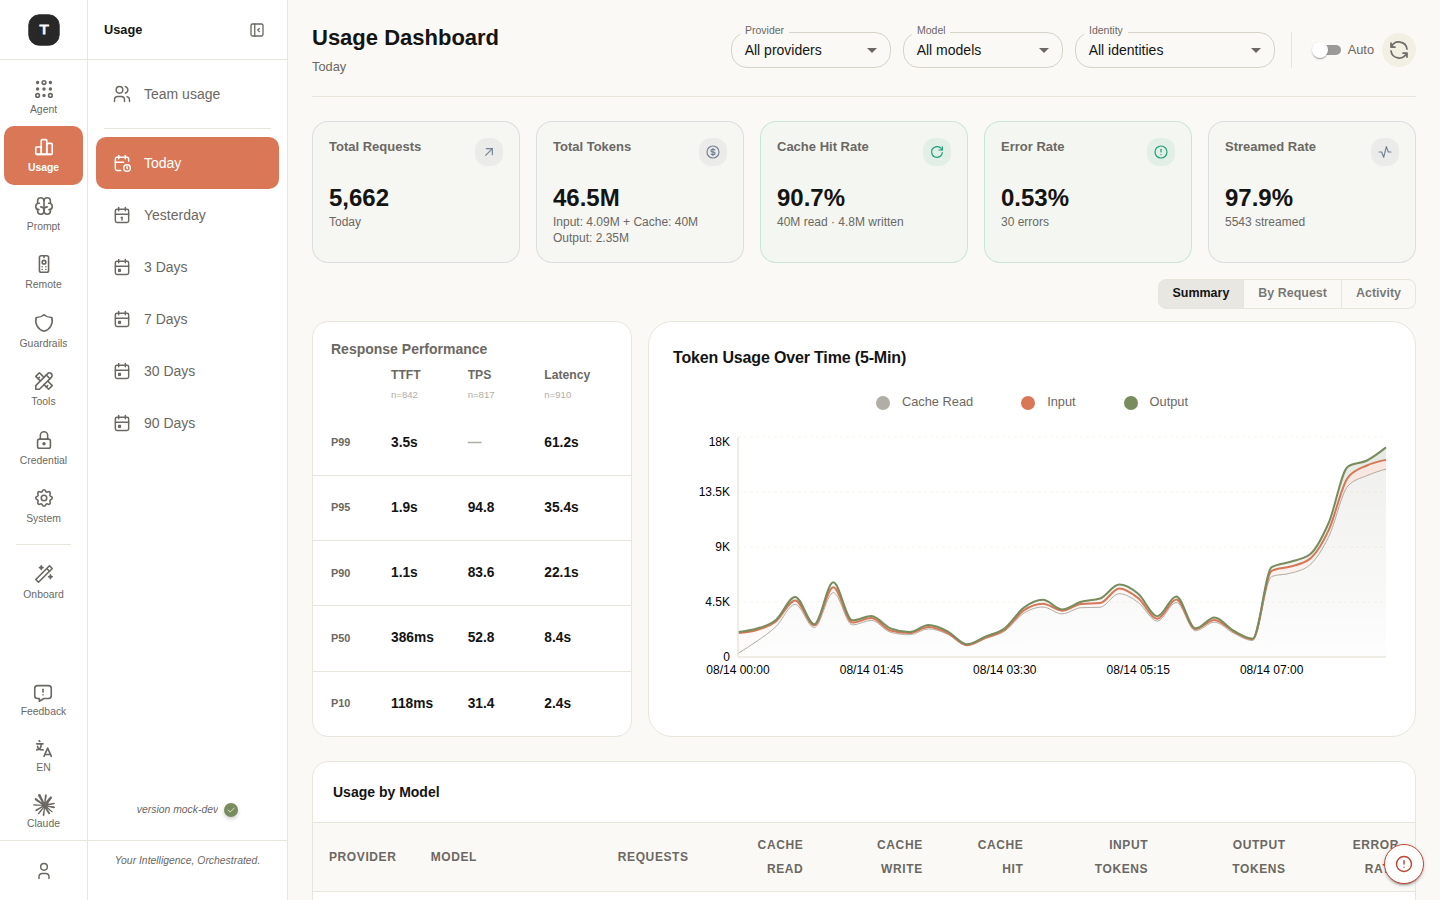
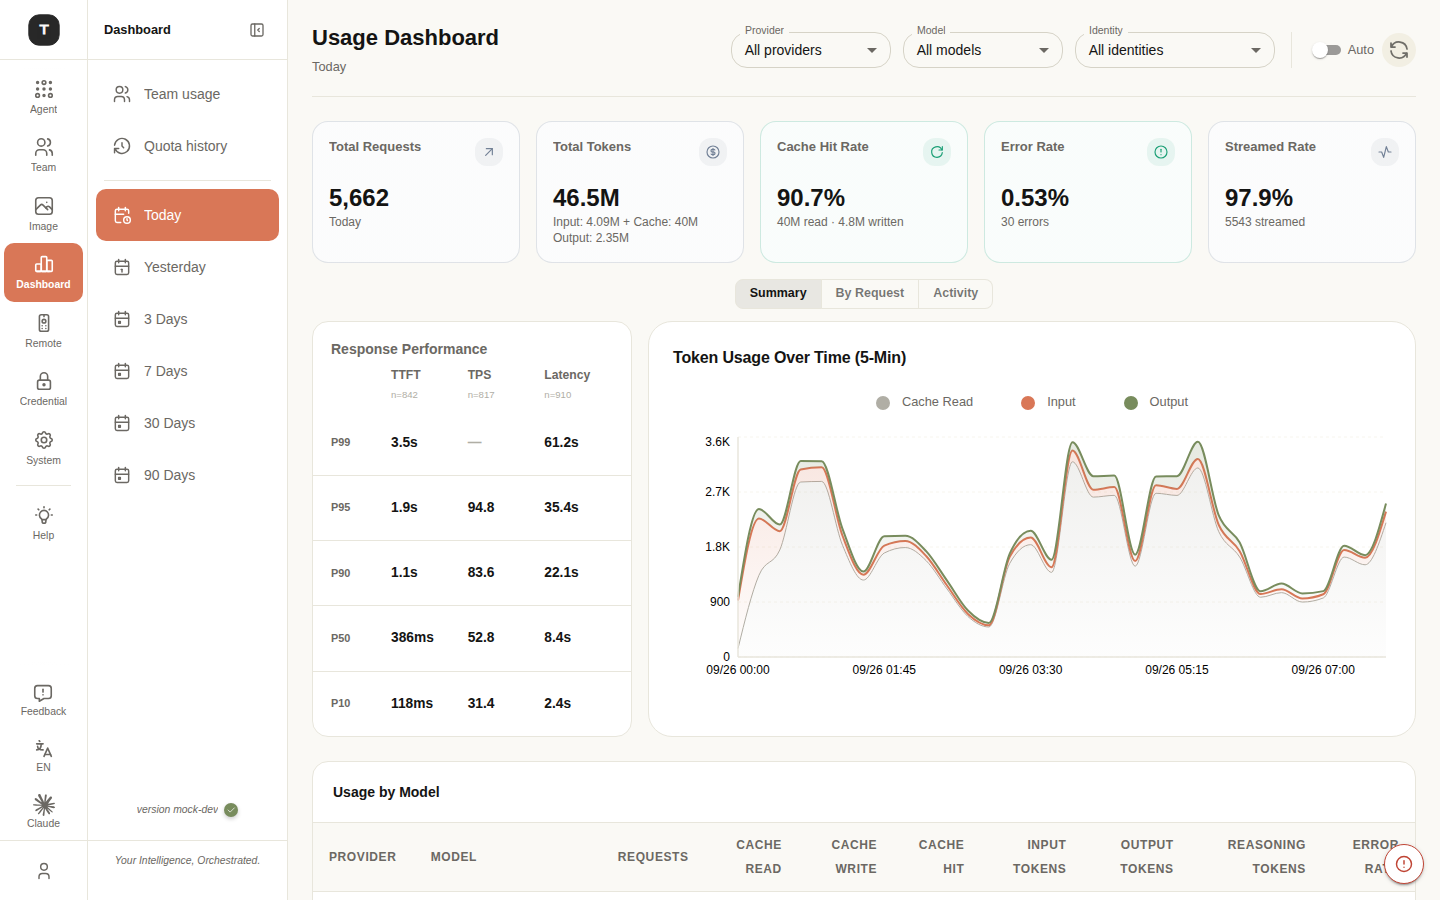
docs(readme): regenerate screenshots in sidebar order, feature Team and Image API (#1853)
## Summary
The README screenshots and demo GIF were out of order and showed
experimental features (Guardrails, MCP). This PR retakes them in sidebar
order and adds Team and Image (Playground + API).

## Key Changes

- **Screenshot set**: removes Guardrails, MCP, heatmap and standalone
routing; adds Team, Team usage, Image Playground and Image API.
- **Naming scheme**: files are now `<group>-<index>-<name>.png`, grouped
by sidebar entry, so a new shot slots in without renaming the others.
- **Deterministic GIF**: `create_gif.sh` builds from the list in
`docs/images/gif-frames.txt` instead of every PNG, so Team usage stays
out of the GIF.
- **Populated playground**: the script generates 4 images before taking
the Image Playground shot.
- **Clean nav in shots**: the script forces experimental flags off and
dismisses the star banner.
- **README**: adds Team and Image API sections plus an Image API bullet
under Key Features, and updates every image path.

## Notes
Prompt is hidden from the sidebar now as well, because its skill flags
are forced off along with the other experimental ones.

🤖 Generated with [Claude Code](https://claude.com/claude-code)

https://claude.ai/code/session_01DBoc6LwcMMJdxxDKbCWa7R

---------

diff --git a/README.md b/README.md
@@ -34,6 +34,7 @@ Tingly Box **serves agents, coordinates AI models, optimizes context, and routes
 * **Production-Ready**
   * Smart Routing — Intelligently route requests across models and tokens based on cost, speed, or custom policies
   * Remote Control — Control AI agents remotely through Telegram, DingTalk, Feishu, Lark, Weixin, WeCom, Slack, and Discord
+  * Image API — Route image generation and editing through the same gateway, with a built-in playground
   * Team Management — Isolate data per user with dedicated API tokens, usage tracking, provider access, and configuration
   * Usage Analytics — Track token consumption, latency, cost estimates, and model selection per request
   * Blazing Fast Performance — Typically adds **< 1ms** of overhead
@@ -150,7 +151,33 @@ Any application is ready to use.
 
 > We've provided detailed config guide in application
 
-![Agent Integration Demo](./docs/images/5-claude-code.png)
+![Agent Integration Demo](./docs/images/1-2-claude-code.png)
+
+</details>
+
+<details>
+<summary><strong>Team - Shared Model Deployment</strong></summary>
+
+Give your whole team one endpoint backed by centrally managed model rules. Each member gets a dedicated sharing key, and usage is tracked per user.
+
+1. Open Web UI like `http://localhost:12580`
+2. Navigate to **Team**, configure the model rules, then hand out keys via **Sharing Keys**
+3. Track per-user consumption under **Dashboard → Team usage**
+
+![Team Demo](./docs/images/2-1-team.png)
+
+![Team Usage Demo](./docs/images/4-1-team-usage.png)
+
+</details>
+
+<details>
+<summary><strong>Image API</strong></summary>
+
+Route image generation and editing through the same gateway. Point any OpenAI-compatible image client at `http://localhost:12580/tingly/imagegen` and pick the upstream image models with rules, like any other scenario. Try prompts right away in **Image → Playground**.
+
+![Image Playground Demo](./docs/images/3-1-image-playground.png)
+
+![Image API Demo](./docs/images/3-2-image-api.png)
 
 </details>
 
@@ -206,7 +233,7 @@ Tingly Box now supports remote control through popular IM platforms. Interact wi
 - Team collaboration with shared agent access
 - Monitor and control agents while away from your workstation
 
-![Remote Control Demo](./docs/images/7-remote.png)
+![Remote Control Demo](./docs/images/5-1-remote.png)
 
 </details>
 
@@ -269,7 +296,7 @@ Requests route through your OAuth-authorized provider, using your existing Claud
 
 This works with any tool that supports OpenAI-compatible endpoints: Cherry Studio, VS Code extensions, or custom AI agents.
 
-![OAuth Provider Demo](./docs/images/3-connect-ai.png)
+![OAuth Provider Demo](./docs/images/6-1-connect-ai.png)
 
 </details>
 
@@ -308,7 +335,7 @@ npx tingly-box@latest
 
 Then open `http://localhost:12580` in your browser.
 
-![Dashboard](./docs/images/1-dashboard.png)
+![Dashboard](./docs/images/4-2-dashboard.png)
 
 </details>
 

diff --git a/.claude/skills/ui-preview/SKILL.md b/.claude/skills/ui-preview/SKILL.md
@@ -91,7 +91,7 @@ const { chromium } = createRequire('file://' + process.cwd() + '/')('playwright'
 | Script | Mode | Purpose |
 |--------|------|---------|
 | [`screenshot.mjs`](screenshot.mjs) | mock | **Ad-hoc template** — copy here and customise; do NOT commit |
-| [`docs-screenshots.mjs`](docs-screenshots.mjs) | mock | All 9 `docs/images/` product screenshots + theme previews |
+| [`docs-screenshots.mjs`](docs-screenshots.mjs) | mock | All `docs/images/` product screenshots (`<group>-<index>-<name>.png`, sidebar order) + theme previews; GIF frames listed in `docs/images/gif-frames.txt` |
 | [`regression-credentials.mjs`](regression-credentials.mjs) | mock | Assertion-based regression for `/credentials` Add API Key flow |
 | [`scenario-routing-graph.mjs`](scenario-routing-graph.mjs) | real backend | Codex routing graph screenshots (requires running Go server) |
 
